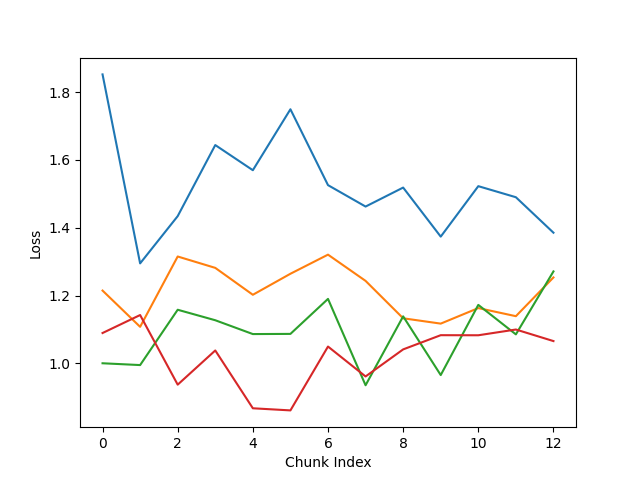
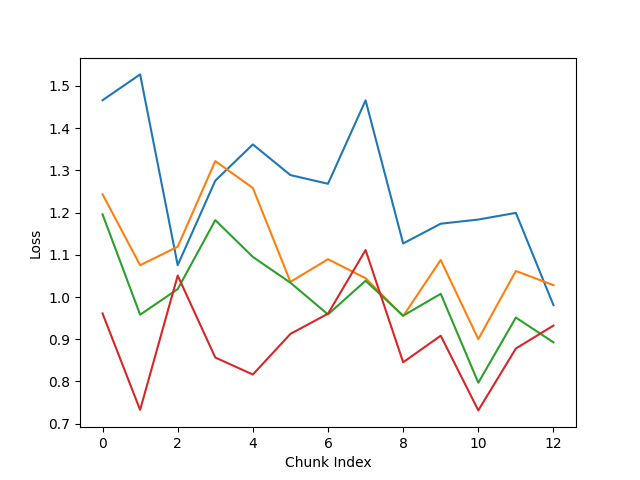
'm'

diff --git a/train.py b/train.py
@@ -127,10 +127,10 @@ def main():
 
     # Configuration
     embedding_dim = 128
-    learning_rate = 5e-5
+    learning_rate = 1e-5
     batch_size = 32
     sequence_length = 20
-    num_epochs = 10
+    num_epochs = 5
     num_workers = 4
 
     # Number of prediction classes per head
@@ -150,16 +150,16 @@ def main():
             head_nums=[2, 4, 7],
             window_size=[8, 4, None],
             mlp_ratio=[4, 4, 4],
-            drop_path=0.1,
+            drop_path=0.15,
             attn_dropout=0.1,
             proj_dropout=0.1,
-            dropout=0.1
+            dropout=0.15
         ),
         cross_attention=CrossAttentionModule(d_model=embedding_dim, num_heads=4, num_classes_dict=num_classes_dict)
     ).to(device)
 
     # Load model
-    checkpoint_path = 'outputs/best_model_epoch.pth'
+    checkpoint_path = 'outputs/best_model_epoch5.pth'
     if os.path.exists(checkpoint_path):
         print(f'Loading model from {checkpoint_path}')
         model.load_state_dict(torch.load(checkpoint_path, map_location=device))
@@ -167,9 +167,13 @@ def main():
         print(f'Checkpoint {checkpoint_path} not found. Starting from scratch.')
 
     criterion = {name: nn.CrossEntropyLoss() for name in num_classes_dict}
-    optimizer = optim.Adam(model.parameters(), lr=learning_rate, weight_decay=1e-5)
+    optimizer = optim.Adam(model.parameters(), lr=learning_rate, weight_decay=5e-5)
 
-    early_stopping = EarlyStopping(patience=4, min_delta=0.001)
+    scheduler = torch.optim.lr_scheduler.ReduceLROnPlateau(
+        optimizer, mode='min', factor=0.5, patience=1, threshold=0.0001, threshold_mode='rel'
+    )
+
+    early_stopping = EarlyStopping(patience=2, min_delta=0.0005)
     best_val_loss = float('inf')
 
     os.makedirs('outputs', exist_ok=True)
@@ -228,6 +232,8 @@ def main():
         )
 
         val_loss, val_acc = validate_one_epoch(model, val_loader, criterion, device)
+        scheduler.step(val_loss)
+
         print(f"Validation Loss: {val_loss:.4f}, Overall Accuracy: {val_acc:.4f}")
 
         del val_data, val_dataset, val_loader

diff --git a/main.py b/main.py
@@ -13,8 +13,8 @@ pie = PIE(data_path='PIE')
 
 # Configuration
 video_path = 'test_clip2.mp4'
-out_video = 'output_with_predictions_1.1.mp4'
-model_path = 'outputs/best_model_epoch2.pth'
+out_video = 'output_with_predictions_1.2.mp4'
+model_path = 'outputs/best_model_epoch5.pth'
 
 # Image transformation
 # default_img_transform = transforms.Compose([
